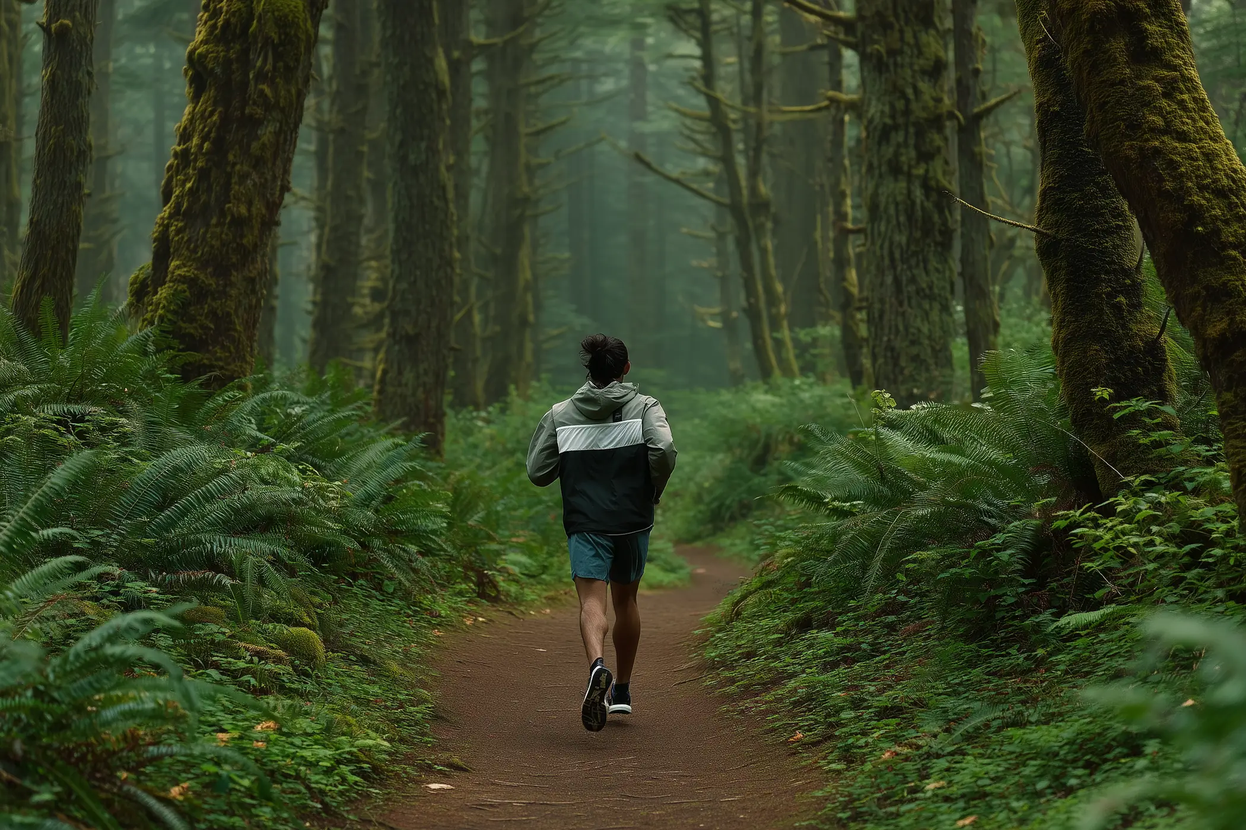
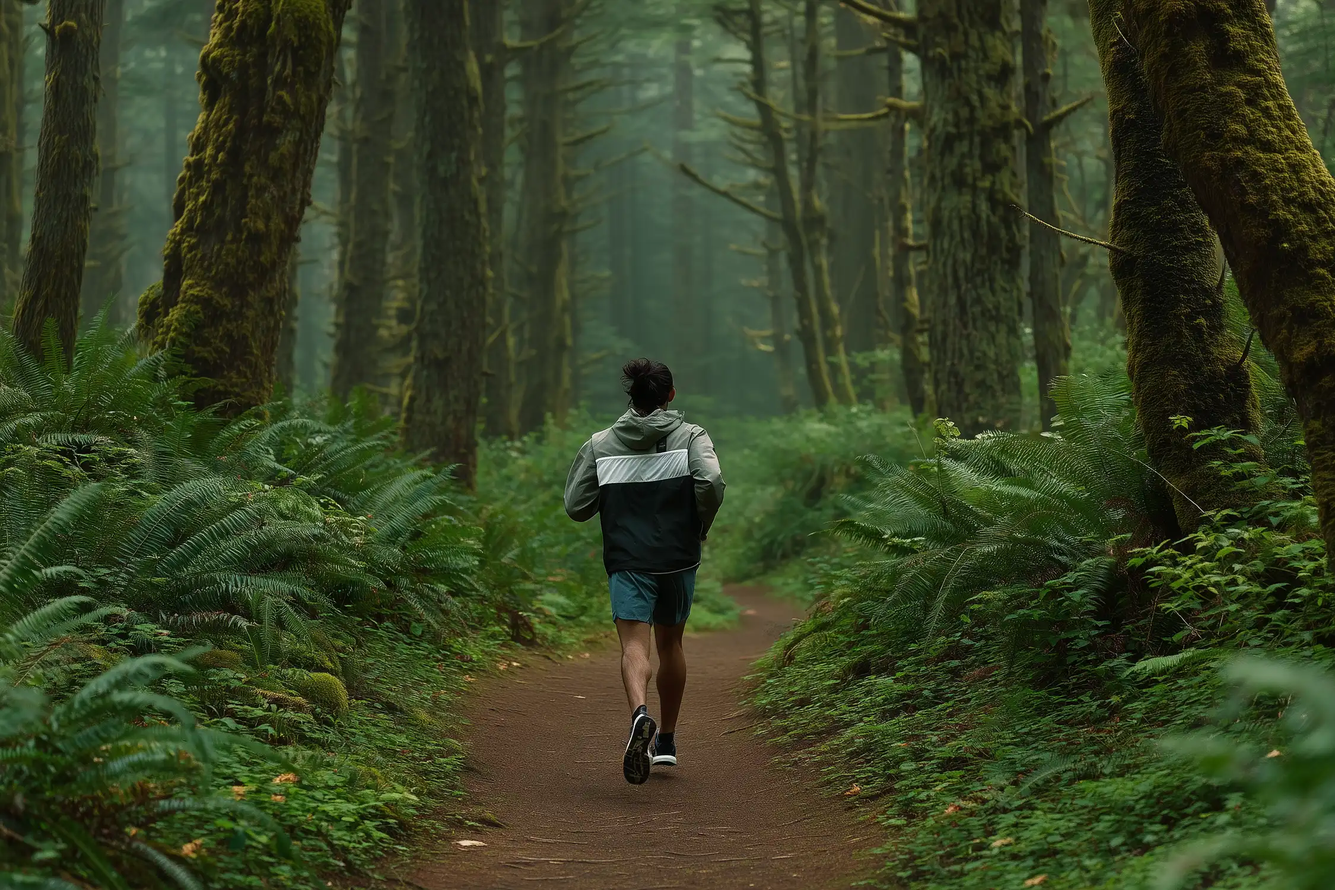
Swap in larger hero photos within the 400 KB budget
- valley.webp: 1792x2688 (was 1600x2400), 379 KB
- trail.webp: 2250x1500 (was 2100x1400), 371 KB
- Update dimensions in site.ts and export notes in ASSET-CREDITS.md

diff --git a/src/content/site.ts b/src/content/site.ts
@@ -31,8 +31,8 @@ export const site = {
     overlook: {
       src: asset('images/valley.webp'),
       alt: 'Fir trees frame a deep mountain valley, with a river of fog winding below jagged blue peaks.',
-      width: 1600,
-      height: 2400,
+      width: 1792,
+      height: 2688,
     } satisfies PhotoAsset,
     /** Where the camera dives, as a fraction of the opening photo (0–1). Currently: the fog pool in the valley. */
     diveTarget: { x: 0.51, y: 0.49 },
@@ -45,8 +45,8 @@ export const site = {
     landing: {
       src: asset('images/trail.webp'),
       alt: 'A runner in a light jacket jogs down a dirt trail through mossy old-growth trees and ferns.',
-      width: 2100,
-      height: 1400,
+      width: 2250,
+      height: 1500,
     } satisfies PhotoAsset,
     /** Point the landing photo pushes in toward, in CSS percentages. Currently: the runner. */
     landingFocus: { x: 48, y: 58 },

diff --git a/docs/ASSET-CREDITS.md b/docs/ASSET-CREDITS.md
@@ -7,7 +7,7 @@ Every image, video and sound in `public/` needs a row here before launch.
 | `public/images/valley.webp` | Provided by site owner | To confirm | To confirm | Confirm before launch |
 | `public/images/trail.webp` | Provided by site owner | To confirm | To confirm | Confirm before launch |
 
-If these were made with an AI image tool, record the tool and check its terms allow commercial/portfolio use. Originals live outside the repo; the files here are resized WebP exports (valley 1600×2400, trail 2100×1400).
+If these were made with an AI image tool, record the tool and check its terms allow commercial/portfolio use. Originals live outside the repo; the files here are WebP exports under the 400 KB budget (valley 1792×2688 at q62, the full original size; trail 2250×1500 at q54, downscaled from a 2688×1792 original to fit the budget).
 
 ## Good free sources
 
